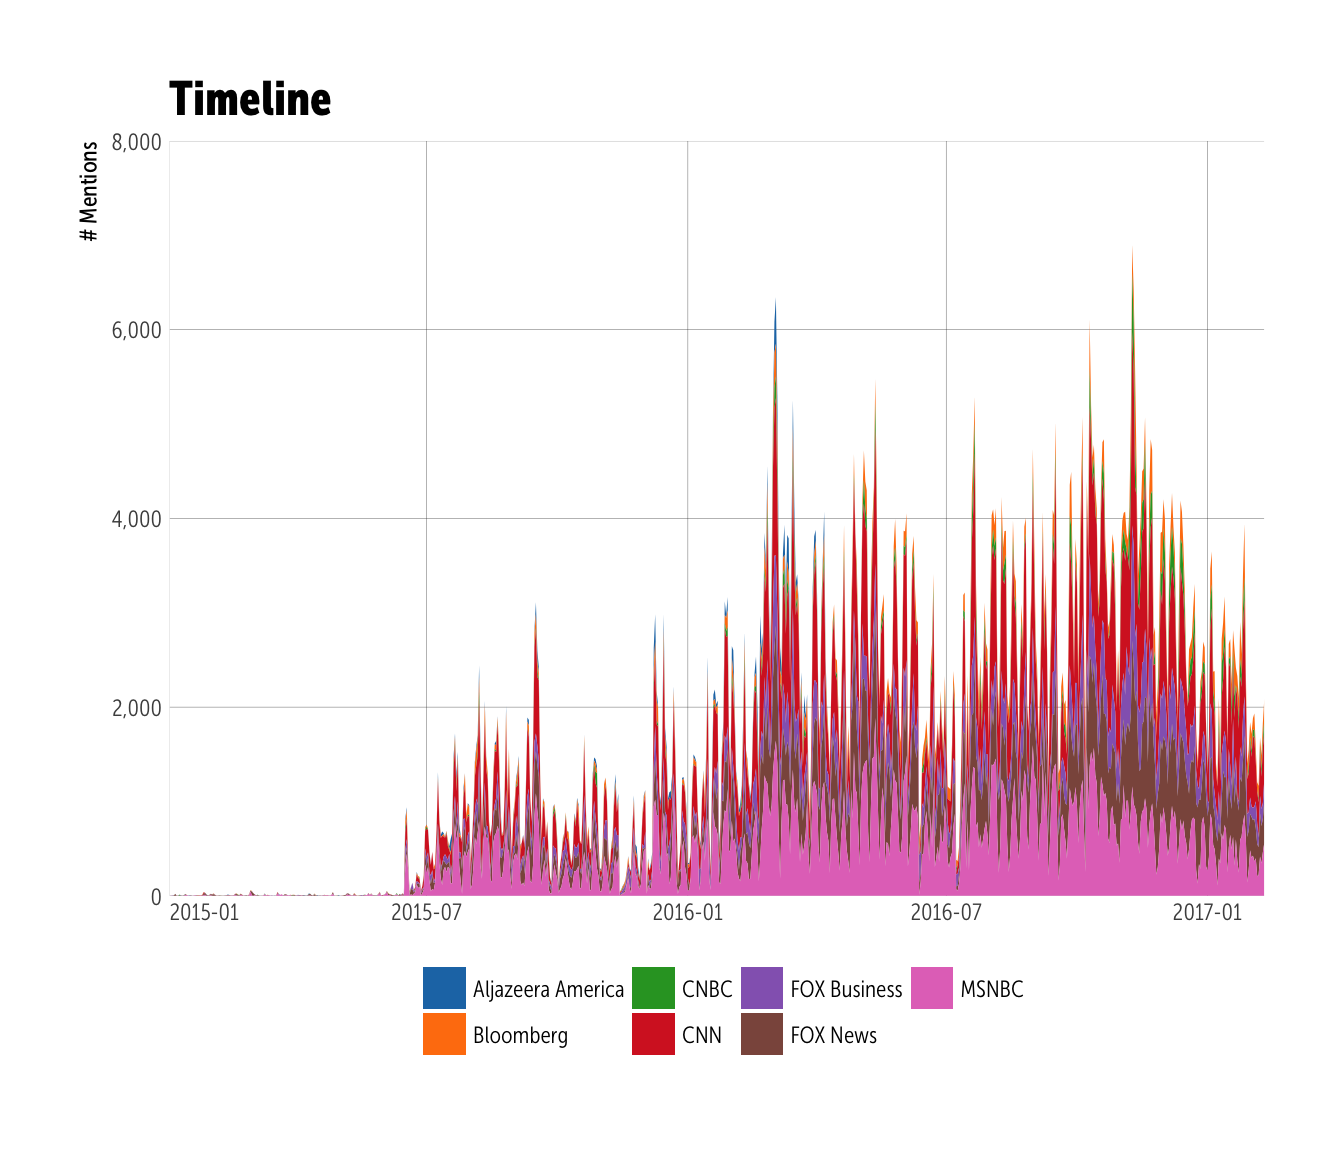
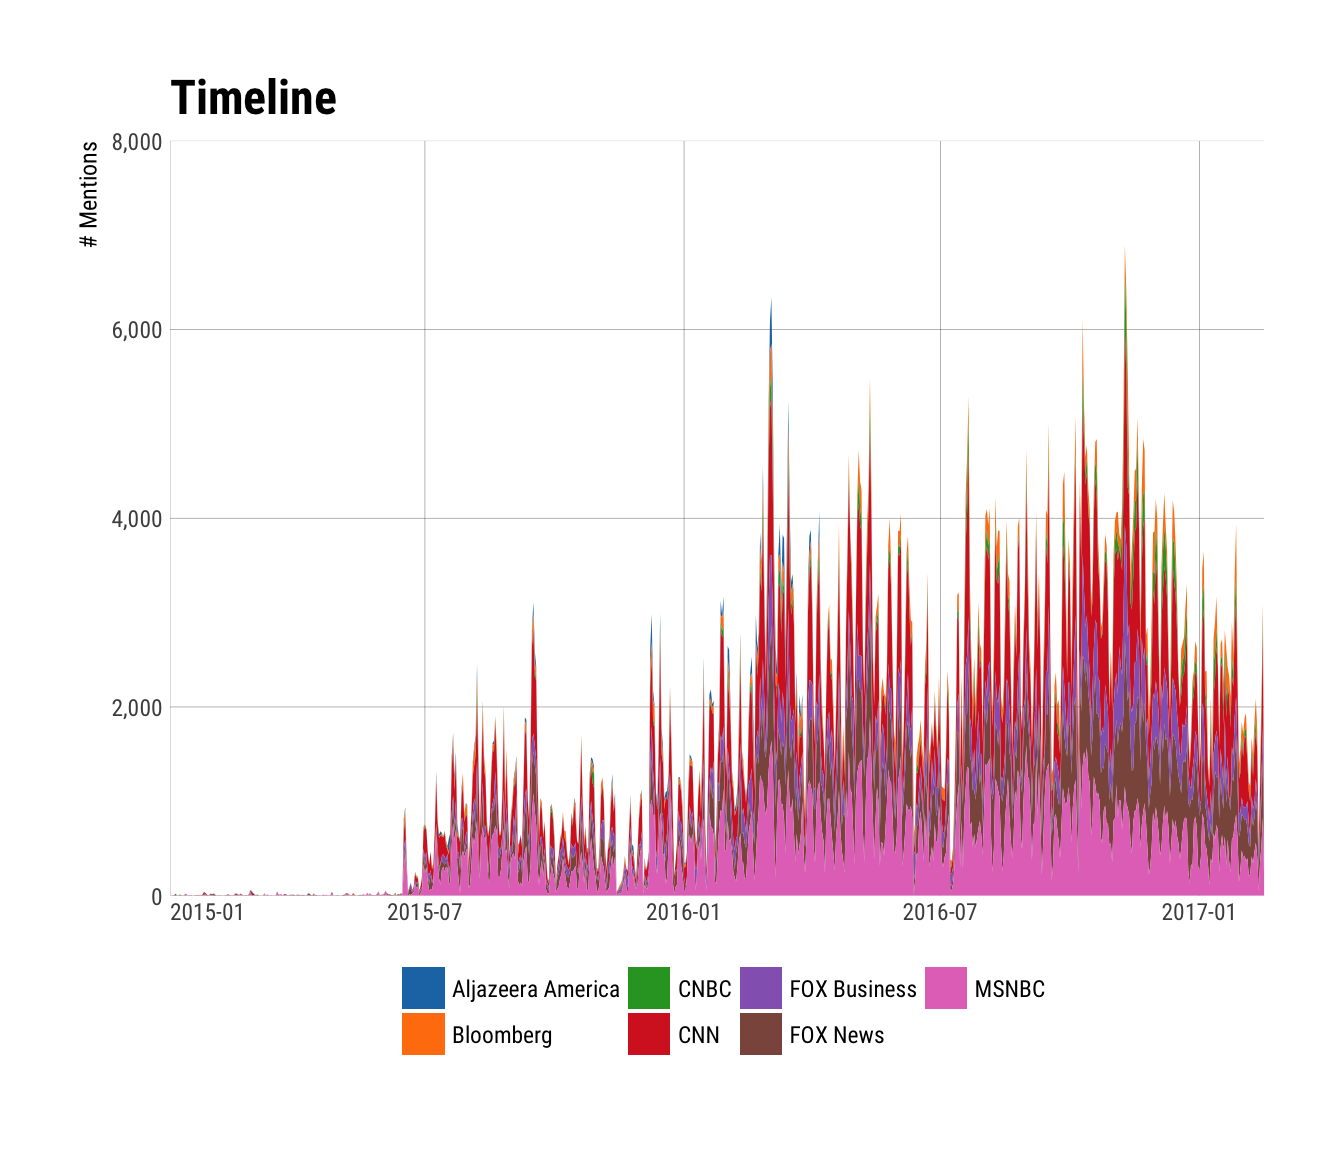
Use theme_ipsum_rc()

diff --git a/README.md b/README.md
@@ -33,8 +33,8 @@ options(width=120)
 ``` r
 library(newsflash)
 library(tidyverse)
-library(ggalt) # github version
-library(hrbrmisc)
+library(ggalt)
+library(hrbrthemes) # github 
 
 # current verison
 packageVersion("newsflash")
@@ -53,21 +53,21 @@ list_networks(widget=FALSE)
     ##                         <chr>                               <chr>                               <chr>
     ## 1                    NATIONAL               All National Networks (See individual networks for dates)
     ## 2                     ALJAZAM                   Aljazeera America             (8/20/2013 - 4/13/2016)
-    ## 3                   BLOOMBERG                           Bloomberg             (12/5/2013 - 2/10/2017)
-    ## 4                        CNBC                                CNBC              (7/2/2009 - 2/10/2017)
-    ## 5                         CNN                                 CNN              (7/2/2009 - 2/10/2017)
-    ## 6                         FBC                        FOX Business             (8/20/2012 - 2/11/2017)
-    ## 7                    FOXNEWSW                            FOX News             (7/16/2011 - 2/10/2017)
-    ## 8                       MSNBC                               MSNBC              (7/2/2009 - 2/10/2017)
+    ## 3                   BLOOMBERG                           Bloomberg             (12/5/2013 - 2/16/2017)
+    ## 4                        CNBC                                CNBC              (7/2/2009 - 2/16/2017)
+    ## 5                         CNN                                 CNN              (7/2/2009 - 2/16/2017)
+    ## 6                         FBC                        FOX Business             (8/20/2012 - 2/16/2017)
+    ## 7                    FOXNEWSW                            FOX News             (7/16/2011 - 2/16/2017)
+    ## 8                       MSNBC                               MSNBC              (7/2/2009 - 2/16/2017)
     ## 9               INTERNATIONAL          All International Networks (See individual networks for dates)
-    ## 10                 BBCNEWSSEG                            BBC News              (1/1/2017 - 2/10/2017)
+    ## 10                 BBCNEWSSEG                            BBC News              (1/1/2017 - 2/15/2017)
     ## 11                  AFFNETALL              All Affiliate Networks (See individual networks for dates)
-    ## 12                 AFFNET_ABC              ABC Affiliate Stations              (7/2/2009 - 2/11/2017)
-    ## 13                 AFFNET_CBS              CBS Affiliate Stations              (7/2/2009 - 2/11/2017)
-    ## 14                 AFFNET_FOX              FOX Affiliate Stations              (7/3/2009 - 2/11/2017)
+    ## 12                 AFFNET_ABC              ABC Affiliate Stations              (7/2/2009 - 2/16/2017)
+    ## 13                 AFFNET_CBS              CBS Affiliate Stations              (7/2/2009 - 2/16/2017)
+    ## 14                 AFFNET_FOX              FOX Affiliate Stations              (7/3/2009 - 2/16/2017)
     ## 15                AFFNET_MYTV             MYTV Affiliate Stations            (12/11/2015 - 12/2/2016)
-    ## 16                 AFFNET_NBC              NBC Affiliate Stations              (7/2/2009 - 2/11/2017)
-    ## 17                 AFFNET_PBS              PBS Affiliate Stations             (7/14/2010 - 2/10/2017)
+    ## 16                 AFFNET_NBC              NBC Affiliate Stations              (7/2/2009 - 2/16/2017)
+    ## 17                 AFFNET_PBS              PBS Affiliate Stations             (7/14/2010 - 2/16/2017)
     ## 18                 AFFMARKALL               All Affiliate Markets (See individual networks for dates)
     ## 19           AFFMARKET_Boston           Boston Affiliate Stations             (9/30/2015 - 12/2/2016)
     ## 20     AFFMARKET_Cedar Rapids     Cedar Rapids Affiliate Stations            (10/19/2015 - 12/2/2016)
@@ -90,19 +90,19 @@ list_networks(widget=FALSE)
     ## 37       AFFMARKET_Newport KY       Newport KY Affiliate Stations              (1/6/2016 - 3/23/2016)
     ## 38          AFFMARKET_Norfolk          Norfolk Affiliate Stations               (1/6/2016 - 3/9/2016)
     ## 39          AFFMARKET_Orlando          Orlando Affiliate Stations              (1/6/2016 - 3/23/2016)
-    ## 40     AFFMARKET_Philadelphia     Philadelphia Affiliate Stations              (6/6/2014 - 2/11/2017)
+    ## 40     AFFMARKET_Philadelphia     Philadelphia Affiliate Stations              (6/6/2014 - 2/16/2017)
     ## 41       AFFMARKET_Portsmouth       Portsmouth Affiliate Stations               (1/6/2016 - 3/9/2016)
     ## 42           AFFMARKET_Pueblo           Pueblo Affiliate Stations              (1/19/2016 - 3/9/2016)
     ## 43          AFFMARKET_Raleigh          Raleigh Affiliate Stations             (1/13/2016 - 12/2/2016)
     ## 44             AFFMARKET_Reno             Reno Affiliate Stations               (1/1/2016 - 3/2/2016)
     ## 45          AFFMARKET_Roanoke          Roanoke Affiliate Stations              (1/26/2016 - 3/1/2016)
-    ## 46    AFFMARKET_San Francisco    San Francisco Affiliate Stations             (7/14/2010 - 2/11/2017)
+    ## 46    AFFMARKET_San Francisco    San Francisco Affiliate Stations             (7/14/2010 - 2/16/2017)
     ## 47   AFFMARKET_Shaker Heights   Shaker Heights Affiliate Stations              (1/6/2016 - 12/2/2016)
     ## 48       AFFMARKET_Sioux City       Sioux City Affiliate Stations             (10/13/2015 - 3/2/2016)
     ## 49   AFFMARKET_St. Petersburg   St. Petersburg Affiliate Stations              (1/6/2016 - 12/2/2016)
     ## 50            AFFMARKET_Tampa            Tampa Affiliate Stations              (1/6/2016 - 12/2/2016)
     ## 51   AFFMARKET_Virginia Beach   Virginia Beach Affiliate Stations               (1/7/2016 - 3/8/2016)
-    ## 52    AFFMARKET_Washington DC    Washington DC Affiliate Stations              (7/2/2009 - 2/11/2017)
+    ## 52    AFFMARKET_Washington DC    Washington DC Affiliate Stations              (7/2/2009 - 2/16/2017)
     ## 53         AFFMARKET_Waterloo         Waterloo Affiliate Stations            (10/19/2015 - 12/2/2016)
 
 Basic search:
@@ -116,9 +116,9 @@ query_tv("clinton", "email", "AFFMARKALL")
     ##   Context keywords: email 
     ##           Stations: AFFMARKALL 
     ##         Start date: 2009-06-03 
-    ##           End date: 2017-02-10 
+    ##           End date: 2017-02-16 
     ## 
-    ## 230,256 timeline results from 82 stations:
+    ## 230,748 timeline results from 82 stations:
     ## 
     ##   +--+--------------------+------------------*-+--------------------+-------------------+------+
     ## 8 +                                          *                                             *   +
@@ -181,7 +181,7 @@ mex <- query_tv("mexican president", filter_network="NATIONAL")
 top_text(mex)
 ```
 
-    ## # A tibble: 196,074 × 4
+    ## # A tibble: 197,168 × 4
     ##    station         show           show_date   word
     ##      <chr>        <chr>              <dttm>  <chr>
     ## 1     CNBC Street Signs 2016-09-30 08:00:00      i
@@ -194,7 +194,7 @@ top_text(mex)
     ## 8     CNBC Street Signs 2016-09-30 08:00:00     of
     ## 9     CNBC Street Signs 2016-09-30 08:00:00  times
     ## 10    CNBC Street Signs 2016-09-30 08:00:00     he
-    ## # ... with 196,064 more rows
+    ## # ... with 197,158 more rows
 
 ``` r
 head(top_text(mex, tidy=FALSE))
@@ -222,7 +222,7 @@ arrange(orange$station_histogram, value) %>%
   scale_x_continuous(expand=c(0,0), label=scales::comma, limits=c(0,400000)) +
   labs(y=NULL, x="# Mentions",
        title="Station Histogram") +
-  theme_hrbrmstr_msc(grid="X")
+  theme_ipsum_rc(grid="X")
 ```
 
 <img src="README_files/figure-markdown_github/unnamed-chunk-9-1.png" width="672" />
@@ -236,7 +236,7 @@ mutate(orange$timeline, date_start=as.Date(date_start)) %>%
   scale_y_continuous(name="# Mentions", label=scales::comma, limits=c(0, 8000), expand=c(0,0)) +
   ggthemes::scale_fill_tableau(name=NULL) +
   labs(title="Timeline") +
-  theme_hrbrmstr_msc(grid="XY") +
+  theme_ipsum_rc(grid="XY") +
   theme(legend.position="bottom") +
   theme(axis.text.x=element_text(hjust=c(0, 0.5, 0.5, 0.5, 0.5, 0.5)))
 ```
@@ -263,7 +263,7 @@ library(testthat)
 date()
 ```
 
-    ## [1] "Sun Feb 12 13:25:44 2017"
+    ## [1] "Mon Feb 20 10:02:25 2017"
 
 ``` r
 test_dir("tests/")
